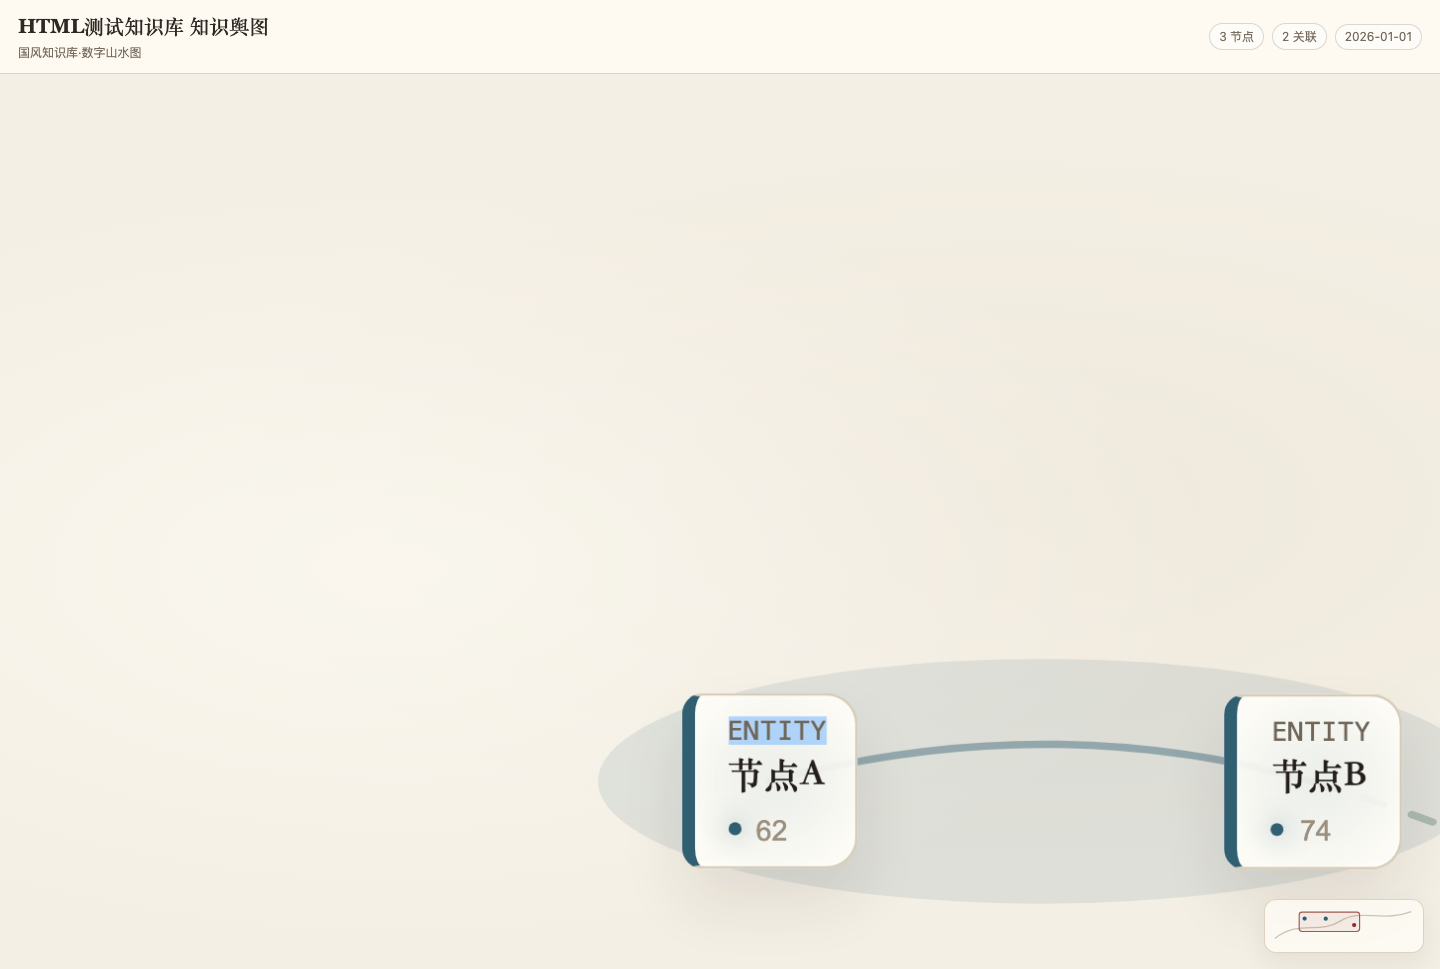
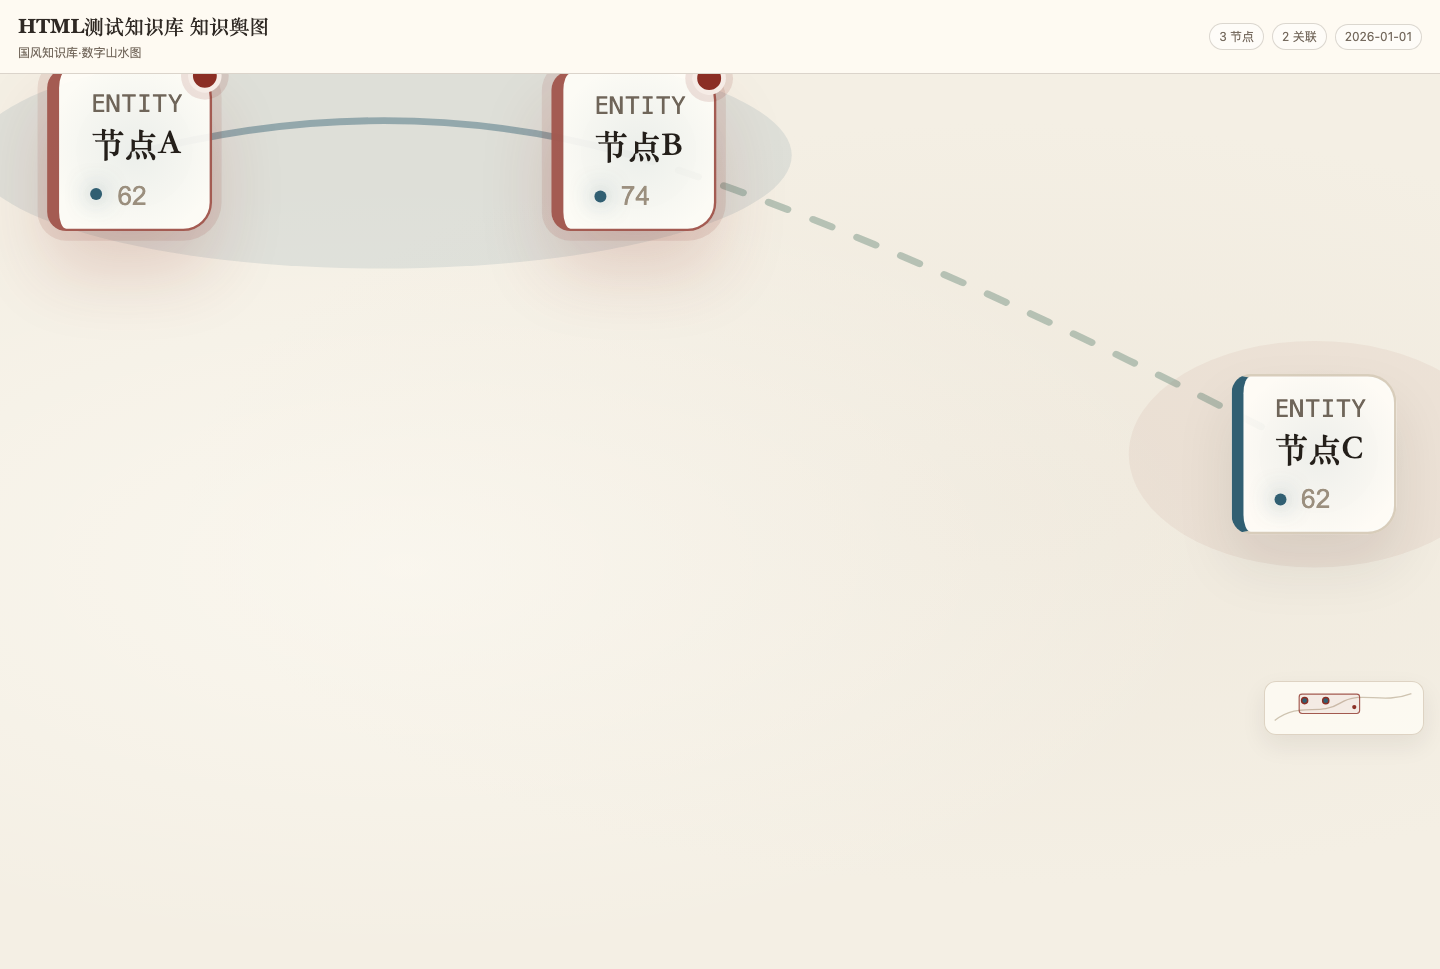
fix(graph): preserve shift multi-select highlights

diff --git a/packages/graph-engine/src/render/model.ts b/packages/graph-engine/src/render/model.ts
@@ -164,7 +164,9 @@ export function buildRenderableGraph(data: GraphData, options: BuildRenderableGr
     communityById: Record<string, AtlasCommunity>;
   };
   const layout = deriveAtlasLayout(model) as Record<string, unknown>;
-  const selectedNodeId = resolveSelectedNodeId(model, options);
+  const selectedNodeIds = resolveSelectedNodeIds(model, options);
+  const selectedNodeSet = new Set(selectedNodeIds);
+  const selectedNodeId = selectedNodeIds.length === 1 ? selectedNodeIds[0] : null;
   const visible = resolveAtlasVisibleSnapshot(model, layout, { selectedNodeId }) as {
     nodes: AtlasNode[];
     edges: AtlasEdge[];
@@ -187,7 +189,10 @@ export function buildRenderableGraph(data: GraphData, options: BuildRenderableGr
   const startIds = visible.startNodeIds || {};
 
   const nodes = visible.nodes.map((node) => {
-    const displayMode = nodeDisplayMode(node, visible.densityMode, selectedNodeId, previewNodeId, labelIds, importantIds);
+    const isSelected = selectedNodeSet.has(node.id);
+    const displayMode = isSelected
+      ? "card"
+      : nodeDisplayMode(node, visible.densityMode, selectedNodeId, previewNodeId, labelIds, importantIds);
     const point = renderPointForNode(node, options.positions);
     return {
       id: node.id,
@@ -200,11 +205,11 @@ export function buildRenderableGraph(data: GraphData, options: BuildRenderableGr
       y: pointToPercentY(point.y),
       point,
       displayMode,
-      visualRole: nodeVisualRole(node, displayMode, selectedNodeId, previewNodeId, importantIds),
+      visualRole: nodeVisualRole(node, displayMode, isSelected ? node.id : selectedNodeId, previewNodeId, importantIds),
       priority: Number(node.priority || 0),
       weight: Number(node.weight || 0),
       unavailable: node.unavailable === true,
-      selected: node.id === selectedNodeId,
+      selected: isSelected,
       startNode: startIds[node.id] === true,
       previewStart: node.id === previewNodeId,
       labelVisible: labelIds[node.id] === true
@@ -384,13 +389,17 @@ function normalizePinnedY(value: number): number {
   return value > 100 ? clamp(value / WORLD_HEIGHT * 100, 0, 100) : clamp(value, 0, 100);
 }
 
-function resolveSelectedNodeId(
+function resolveSelectedNodeIds(
   model: { byId: Record<string, AtlasNode>; nodes: AtlasNode[] },
   options: BuildRenderableGraphOptions
-): string | null {
-  if (options.selection?.kind === "node" && model.byId[options.selection.id]) return options.selection.id;
-  if (options.selectedNodeId && model.byId[options.selectedNodeId]) return options.selectedNodeId;
-  return null;
+): string[] {
+  if (options.selection?.kind === "node" && model.byId[options.selection.id]) return [options.selection.id];
+  if (options.selection?.kind === "nodes") {
+    const selected = new Set(options.selection.ids);
+    return model.nodes.map((node) => node.id).filter((id) => selected.has(id));
+  }
+  if (options.selectedNodeId && model.byId[options.selectedNodeId]) return [options.selectedNodeId];
+  return [];
 }
 
 function firstPreviewNodeId(visible: { starts: Array<{ node: AtlasNode }>; nodes: AtlasNode[] }): string | null {

diff --git a/packages/graph-engine/test/render-model.test.ts b/packages/graph-engine/test/render-model.test.ts
@@ -138,6 +138,19 @@ describe("buildRenderableGraph", () => {
     assert.equal(graph.minimap.nodes.find((node) => node.id === "source")?.selected, true);
   });
 
+  it("marks shift-style multi-node selections", () => {
+    const graph = buildRenderableGraph(sampleGraph(), {
+      theme: "shan-shui",
+      selection: { kind: "nodes", ids: ["topic", "source"] }
+    });
+
+    const selected = graph.nodes.filter((node) => node.selected).map((node) => node.id);
+    assert.deepEqual(selected, ["topic", "source"]);
+    assert.equal(graph.nodes.find((node) => node.id === "topic")?.displayMode, "card");
+    assert.equal(graph.nodes.find((node) => node.id === "source")?.visualRole, "cinnabar-note");
+    assert.equal(graph.minimap.nodes.filter((node) => node.selected).length, 2);
+  });
+
   it("keeps community wash around the member cluster instead of chasing an outlier", () => {
     const graph = buildRenderableGraph(outlierCommunityGraph(), { theme: "shan-shui" });
     const community = graph.communities.find((item) => item.id === "c1");